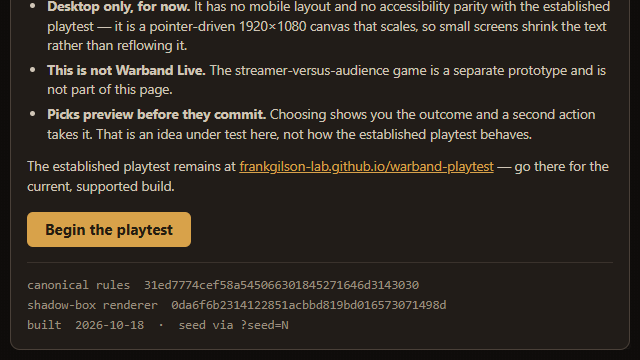
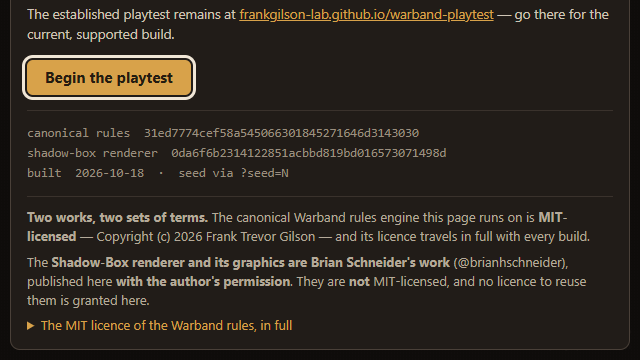
Rebuild with the MIT licence inside, and both seeds played to a verdict
index.html is BYTE-IDENTICAL -- the same git object on this branch, on main and
in the working tree, 622b4cfd9266dff240adaae3dd73a610664c2097. Only
shadowbox.html, SHADOWBOX.md and docs/shadowbox/ change.

Rebuilt from the same two pinned commits by build-shadowbox.mjs in
Everyone-Loves-Beacon/warband-live, now carrying the verbatim MIT licence of the
rules it inlines: 800,497 bytes, sha256
7d4e605da43402da6cfa8a176d5d326a89e31d0b905cb4c9a730dc5b13a2c439

Two works travel in the file and the page keeps them apart. The canonical rules
are MIT, Copyright (c) 2026 Frank Trevor Gilson, and the licence is embedded
twice -- an HTML comment nothing can dismiss, and a readable panel in the notice
-- both 31ed777:LICENSE byte for byte. The Shadow-Box renderer and its graphics
are Brian Schneider's work, published with his permission, which is NOT a
licence: the page says they are not MIT and that no right to reuse them is
granted here.

Both requested seeds now play to the engine's verdict, offline, with the
Chronicle on screen and no console errors:

  seed  3   over at turn 7    against 54/12 of 54/48   Company A broke
  seed 28   over at turn 10   against 48/8  of 46/51   Company A broke

The earlier "freezes at turn 7" claim was a fault in the test harness, not in
the renderer, and is withdrawn; the verdict is now read from wbState(), the
engine's own accessor, rather than from a rendering snapshot that stops
updating the moment a match ends.
[…]

Changed region(s): [[0.0312, 0.0, 0.9688, 0.55], [0.0312, 0.5806, 0.9375, 0.8556], [0.0312, 0.8861, 0.4688, 0.9167]]

diff --git a/shadowbox.html b/shadowbox.html
@@ -1,4 +1,47 @@
 <!doctype html>
+<!--
+  Warband · Shadow-Box — an experimental, self-contained playtest build.
+
+  TWO WORKS TRAVEL IN THIS FILE, UNDER TWO DIFFERENT SETS OF TERMS.
+
+  1. THE CANONICAL WARBAND RULES ENGINE — config.js, core.js and engine.js, from
+     frankgilson-lab/warband-prototype at 31ed7774cef58a545066301845271646d3143030 — is MIT-licensed.
+     Its licence and copyright notice follow in full, verbatim, as MIT requires of
+     every copy and of every substantial portion.
+
+  2. THE SHADOW-BOX RENDERER AND ITS GRAPHICS — index.html, kit.js and sb.js, from
+     Everyone-Loves-Beacon/warband-live at 0da6f6b2314122851acbbd819bd016573071498d — are the work of
+     Brian Schneider (@brianhschneider), published here with the author's permission.
+     They are NOT covered by the MIT licence below, and this file grants no licence to
+     use, copy, modify or redistribute them. Permission to publish this playtest is not
+     permission to reuse the renderer.
+
+  ---- 31ed7774cef58a545066301845271646d3143030:LICENSE, verbatim ----
+
+MIT License
+
+Copyright (c) 2026 Frank Trevor Gilson
+
+Permission is hereby granted, free of charge, to any person obtaining a copy
+of this software and associated documentation files (the "Software"), to deal
+in the Software without restriction, including without limitation the rights
+to use, copy, modify, merge, publish, distribute, sublicense, and/or sell
+copies of the Software, and to permit persons to whom the Software is
+furnished to do so, subject to the following conditions:
+
+The above copyright notice and this permission notice shall be included in all
+copies or substantial portions of the Software.
+
+THE SOFTWARE IS PROVIDED "AS IS", WITHOUT WARRANTY OF ANY KIND, EXPRESS OR
+IMPLIED, INCLUDING BUT NOT LIMITED TO THE WARRANTIES OF MERCHANTABILITY,
+FITNESS FOR A PARTICULAR PURPOSE AND NONINFRINGEMENT. IN NO EVENT SHALL THE
+AUTHORS OR COPYRIGHT HOLDERS BE LIABLE FOR ANY CLAIM, DAMAGES OR OTHER
+LIABILITY, WHETHER IN AN ACTION OF CONTRACT, TORT OR OTHERWISE, ARISING FROM,
+OUT OF OR IN CONNECTION WITH THE SOFTWARE OR THE USE OR OTHER DEALINGS IN THE
+SOFTWARE.
+
+  ---- end of licence ----
+-->
 <html><head><meta charset="utf-8">
 <meta name="viewport" content="width=device-width,initial-scale=1">
 <title>Warband · Shadow-Box (experimental desktop playtest)</title>
@@ -15,7 +58,7 @@
 </style></head>
 <body>
 <svg id="s" viewBox="0 0 1920 1080" preserveAspectRatio="xMidYMid meet"></svg><div class="grain"></div>
-<script>/* warband rules config.js — canonical 31ed777 */
+<script>/* warband rules config.js — canonical 31ed777 — MIT, Copyright (c) 2026 Frank Trevor Gilson */
 // Generated from config.json — do not edit by hand.
 // Loaded before core.js so the rules module has its data synchronously,
 // following the portal cards-generated.js convention.
@@ -797,7 +840,7 @@ if (typeof self !== 'undefined') self.WARBAND_CONFIG = WARBAND_CONFIG;
 if (typeof window !== 'undefined') window.WARBAND_CONFIG = WARBAND_CONFIG;
 
 </script>
-<script>/* warband rules core.js — canonical 31ed777 */
+<script>/* warband rules core.js — canonical 31ed777 — MIT, Copyright (c) 2026 Frank Trevor Gilson */
 // ── Warband Core ──────────────────────────────────────────────────────────────
 // Pure game logic: no DOM, no rendering. Shared by worker.js (simulation) and
 // engine.js (interactive play), so the prototype and the sweeps can never drift
@@ -2921,7 +2964,7 @@ else if (typeof self !== 'undefined') self.WarbandCore = WarbandCore;
 else if (typeof window !== 'undefined') window.WarbandCore = WarbandCore;
 
 </script>
-<script>/* warband rules engine.js — canonical 31ed777 */
+<script>/* warband rules engine.js — canonical 31ed777 — MIT, Copyright (c) 2026 Frank Trevor Gilson */
 // ── Warband Engine ────────────────────────────────────────────────────────────
 // Interactive hotseat play for the portal. All RULES come from core.js, which the
 // Monte Carlo sweeps also use, so what people play is exactly what was simulated.
@@ -11615,7 +11658,7 @@ if (typeof window !== 'undefined') Object.assign(window, {
 });
 
 </script>
-<script>/* shadow-box kit.js — 0da6f6b */
+<script>/* shadow-box kit.js — 0da6f6b — Brian Schneider, published with permission; not MIT */
 // Concept-still kit: a Warband hex board drawn in the "Shadow-Box" (FunFab papercut) direction.
 // Pointy-top hexes, odd-r offset, 9 x 7 like the prototype. Pure SVG strings, no deps.
 (function () {
@@ -11927,7 +11970,7 @@ if (typeof window !== 'undefined') Object.assign(window, {
 })();
 
 </script>
-<script>/* shadow-box sb.js — 0da6f6b */
+<script>/* shadow-box sb.js — 0da6f6b — Brian Schneider, published with permission; not MIT */
 // Warband · Shadow-Box prototype.
 // A new renderer over Frank's rules engine (upstream engine.js/core.js, untouched).
 // Every rule, move, forecast and bot decision comes from the engine:
@@ -13014,6 +13057,7 @@ window.P = P; window.svg = svg;
     #sb-gate ul{padding-left:17px}
     #sb-gate li{margin:0 0 3px}
     #sb-gate .prov{font-size:11px;margin-top:10px;padding-top:8px}
+    #sb-gate .legal{font-size:11.5px;margin-top:8px;padding-top:8px}
   }
   #sb-gate h1{margin:0 0 4px;font:700 23px/1.25 'Inter','Inter Variable',system-ui,-apple-system,'Segoe UI',Roboto,'Helvetica Neue',Arial,'Liberation Sans',sans-serif;color:#f0e6d6}
   #sb-gate .tag{display:inline-block;margin:0 0 14px;padding:2px 8px;border:1px solid #7a5c2e;border-radius:999px;
@@ -13027,8 +13071,15 @@ window.P = P; window.svg = svg;
   #sb-gate button:focus-visible{outline:3px solid #f0e6d6;outline-offset:2px}
   #sb-gate .prov{margin-top:15px;padding-top:12px;border-top:1px solid #3a322c;
     font:400 12.5px/1.6 ui-monospace,SFMono-Regular,Menlo,Consolas,monospace;color:#9a8e7f}
-  #sb-stamp{position:fixed;right:9px;bottom:7px;z-index:8;pointer-events:none;
+  #sb-gate .legal{margin-top:13px;padding-top:11px;border-top:1px solid #3a322c;font-size:13px;color:#b5aa9a}
+  #sb-gate .legal p{margin:0 0 7px}
+  #sb-gate .legal summary{cursor:pointer;color:#d8a24a}
+  #sb-gate .legal pre{margin:9px 0 0;max-height:190px;overflow:auto;padding:9px 11px;background:#1a1613;
+    border:1px solid #3a322c;border-radius:6px;white-space:pre-wrap;
+    font:400 11.5px/1.5 ui-monospace,SFMono-Regular,Menlo,Consolas,monospace;color:#9a8e7f}
+  #sb-stamp{position:fixed;right:9px;bottom:7px;z-index:8;pointer-events:none;text-align:right;
     font:400 11px/1.4 ui-monospace,SFMono-Regular,Menlo,Consolas,monospace;color:#6d6358}
+  #sb-stamp .terms{font-size:10px;color:#5d544b}
 </style>
 <div id="sb-gate" role="dialog" aria-modal="true" aria-labelledby="sb-gate-h">
   <div class="card">
@@ -13059,9 +13110,43 @@ window.P = P; window.svg = svg;
       shadow-box renderer &nbsp;0da6f6b2314122851acbbd819bd016573071498d<br>
       built &nbsp;2026-10-18 &nbsp;·&nbsp; seed via <code>?seed=N</code>
     </div>
+    <div class="legal">
+      <p><strong>Two works, two sets of terms.</strong> The canonical Warband rules engine this
+        page runs on is <strong>MIT-licensed</strong> — Copyright (c) 2026 Frank Trevor Gilson — and its licence travels
+        in full with every build.</p>
+      <p>The <strong>Shadow-Box renderer and its graphics are Brian Schneider's work</strong>
+        (@brianhschneider), published here <strong>with the
+        author's permission</strong>. They are <strong>not</strong> MIT-licensed, and no licence
+        to reuse them is granted here.</p>
+      <details id="sb-licence">
+        <summary>The MIT licence of the Warband rules, in full</summary>
+        <pre id="sb-licence-text">MIT License
+
+Copyright (c) 2026 Frank Trevor Gilson
+
+Permission is hereby granted, free of charge, to any person obtaining a copy
+of this software and associated documentation files (the "Software"), to deal
+in the Software without restriction, including without limitation the rights
+to use, copy, modify, merge, publish, distribute, sublicense, and/or sell
+copies of the Software, and to permit persons to whom the Software is
+furnished to do so, subject to the following conditions:
+
+The above copyright notice and this permission notice shall be included in all
+copies or substantial portions of the Software.
+
+THE SOFTWARE IS PROVIDED "AS IS", WITHOUT WARRANTY OF ANY KIND, EXPRESS OR
+IMPLIED, INCLUDING BUT NOT LIMITED TO THE WARRANTIES OF MERCHANTABILITY,
+FITNESS FOR A PARTICULAR PURPOSE AND NONINFRINGEMENT. IN NO EVENT SHALL THE
+AUTHORS OR COPYRIGHT HOLDERS BE LIABLE FOR ANY CLAIM, DAMAGES OR OTHER
+LIABILITY, WHETHER IN AN ACTION OF CONTRACT, TORT OR OTHERWISE, ARISING FROM,
+OUT OF OR IN CONNECTION WITH THE SOFTWARE OR THE USE OR OTHER DEALINGS IN THE
+SOFTWARE.
+</pre>
+      </details>
+    </div>
   </div>
 </div>
-<div id="sb-stamp" title="canonical rules 31ed7774cef58a545066301845271646d3143030 · shadow-box renderer 0da6f6b2314122851acbbd819bd016573071498d">rules 31ed777 · renderer 0da6f6b</div>
+<div id="sb-stamp" title="canonical rules 31ed7774cef58a545066301845271646d3143030 · shadow-box renderer 0da6f6b2314122851acbbd819bd016573071498d · rules MIT (Copyright (c) 2026 Frank Trevor Gilson) · renderer Brian Schneider, published with permission, not MIT">rules 31ed777 · renderer 0da6f6b<div class="terms">rules MIT, © 2026 Frank Trevor Gilson · renderer © Brian Schneider, by permission</div></div>
 <script>
 (() => {
   const gate = document.getElementById('sb-gate');

diff --git a/SHADOWBOX.md b/SHADOWBOX.md
@@ -35,6 +35,32 @@ The three rules files are carried byte for byte:
[2 lines of base64/hex data omitted]
 
+And the artifact they make: **800,497 bytes**, sha256
[1 lines of base64/hex data omitted]
+
+## Two works, two sets of terms
+
+This matters more than its position in a README suggests, so it is stated before the build
+instructions rather than after the limitations.
+
+- **The canonical Warband rules engine is MIT-licensed**, Copyright (c) 2026 Frank Trevor
+  Gilson. MIT asks that the copyright notice and the permission notice accompany every copy
+  and every substantial portion, and a page that inlines the whole engine is a substantial
+  portion. So the licence is **embedded verbatim, twice**: as an HTML comment at the top of
+  the file, where it can never be dismissed or restyled away, and as a readable panel in the
+  opening notice. Both copies are `31ed777:LICENSE` byte for byte — 1,076 bytes, sha256
[1 lines of base64/hex data omitted]
+- **The Shadow-Box renderer and its graphics are Brian Schneider's work** (@brianhschneider),
+  published here **with his permission**. Permission is not a licence: they are **not** MIT,
+  and nothing in this repository grants anyone the right to reuse them. The page says so in
+  the same words, in the notice and in the permanent stamp.
+
+The builder reads the licence out of the same commit as the rules and **refuses to build**
+if it is missing or is not the MIT text — so the notice travels with every future build
+rather than with the one artifact somebody remembered to paste it into. Both refusals are
+exercised in `scripts/shadowbox-acceptance.mjs`'s evidence; a licence containing `--` is
+also refused, because it could not be carried verbatim inside an HTML comment.
+
 ## Rebuilding it
 
 The generated HTML is **not** a source. Edit the prototype or the builder, never the output.
@@ -43,7 +69,7 @@ The builder lives with the renderer it inlines, in `warband-live`:
 
 ```
 node scripts/build-shadowbox.mjs \
-  --app-ref   prototype/shadowbox \
+  --app-ref   0da6f6b \
   --rules-repo ../warband \
   --rules-ref  31ed777 \
   --out        ../warband-playtest/shadowbox.html
@@ -62,67 +88,79 @@ are; gameplay, balance, the sparring bot and every interaction decision are unto
 **Preview-then-Take stays an experiment of this prototype's** and is labelled as such on
 the page — it is not adopted for the canonical interface.
 
-1. The Google Fonts `<link>` is dropped.
-2. Two CSS rules redirect the renderer's two font families onto locally installed stacks.
+1. The verbatim MIT licence of the rules goes in at the top of the file, with the
+   renderer's separate terms stated beside it.
+2. The Google Fonts `<link>` is dropped.
+3. Two CSS rules redirect the renderer's two font families onto locally installed stacks.
    The renderer names fonts in SVG `font-family` **presentation attributes**, which any CSS
    rule outranks, so this needs no edit to `kit.js` or `sb.js`. A locally installed Inter or
    Lilita One is first in each stack and still wins, so a machine that has them renders
    exactly as the prototype did.
-3. The five `<script src>` tags become five inline `<script>` blocks in the same order.
-4. The `<title>` says the build is experimental.
-5. A dismissible notice and a permanent provenance stamp are added **over** the page, so the
-   renderer's own muster screen and start button are untouched. The notice is removed from
-   the DOM when dismissed, so it cannot swallow a click meant for the board.
+4. The five `<script src>` tags become five inline `<script>` blocks in the same order, each
+   headed by a comment naming its source commit and its terms.
+5. The `<title>` says the build is experimental.
+6. A dismissible notice — now carrying the licence and the attribution — and a permanent
+   provenance stamp are added **over** the page, so the renderer's own muster screen and
+   start button are untouched. The notice is removed from the DOM when dismissed, so it
+   cannot swallow a click meant for the board; the stamp stays, and carries the attribution
+   in words rather than only in two short SHAs.
 
 ## Self-containment
 
 No externally loaded JavaScript, stylesheet, font, image, XHR, socket or backend. Verified
 by opening the file in Chromium **with every URL blocked and the connection emulated
-offline**, playing a complete game, and recording that no off-origin request was even
-attempted. The single `http` string in the file is the anchor in the notice that links back
-to the established playtest — a hyperlink, not a loaded resource.
+offline**, playing both games to their verdicts, and recording that no off-origin request
+was even attempted. The single `http` string in the file is the anchor in the notice that
+links back to the established playtest — a hyperlink, not a loaded resource.
 
 `?seed=N` works as it does in the prototype, and defaults to 28.
 
-## A match cannot be finished yet — read this before publishing
+## Both seeds play to a verdict
 
-**This is the reason not to merge.** On both requested seeds the game freezes at turn 7 and
-cannot continue:
+Both requested seeds were played end to end **with every URL blocked and the connection
+emulated offline**, by a driver that clicks marks the page painted and never computes
+legality. The verdict is read from `wbState()`, the engine's own accessor — **not** from the
+view-model handed to `SB.paint`, which stops updating once `S.phase === 'over'` and would
+show a finished match as a frozen one. That mistake produced a wrong defect report against
+the renderer in an earlier round; it is why the check is written this way.
 
 ```
-seed 28   phase=play turn=7 active=1 pools=0/0 against=45/46  (one point from a break)
-seed  3   phase=play turn=7 active=1 pools=4/6 against=42/54
+seed  3   over at turn 7    against 54/12 of 54/48   Company A broke    alive A 4  B 5
+seed 28   over at turn 10   against 48/8  of 46/51   Company A broke    alive A 2  B 5
 ```
 
-It is the bot's turn in both cases. The page is **idle, not busy and not looping** — a
-repaint counter sat at 101 with no change over sixteen seconds — and no error reaches the
-console. On seed 3 the bot still has five live units with `acted: 0` and costs of 1, 3, 1, 2
-and 1 against a pool of 6, so it is not short of legal moves; it simply never takes one. The
-renderer's click handler returns early unless `active === HUMAN`, so **a player has no way
-to recover**: the match is dead where it stands.
+For both: `wbLegalMoves(wbState())` returns **0** at the ending, the **Chronicle is on
+screen**, **zero console errors**, and **no off-origin request was even attempted**. Between
+them the two runs exercised the draft, the colours, deployment, movement, plain strikes,
+Pass, Rally, Brace, Anchor and a Marking Shot, and no click that changed nothing was counted
+as an action.
 
-**It is not this build.** Brian's page, byte-identical and served from its own directory
-with its real webfonts and five separate script files, settles into the same state on the
-same turn with the same damage and the same exercised tally. The fault is in PR #4's
-turn-driving glue, not in inlining.
+`scripts/shadowbox-acceptance.mjs`, in `warband-live`, is the run:
 
-The root cause is **not** established here, and three plausible explanations were each
-killed by measurement rather than argument — an empty bot pool (false on seed 3), a turn cap
-(the rules set `max_turns` to 10), and `afterMove()` spinning on a null from `wbBotChoose`
-(false; the page does not repaint at all). Pinning it down belongs with the renderer's
-author. Until it is fixed, a playtester invited to this page will reach turn 7 and stop.
+```
+node scripts/shadowbox-acceptance.mjs ../warband-playtest/shadowbox.html   --rules-repo ../warband --rules-ref 31ed777
+```
+
+61 checks, all passing.
 
 ## Known limitations, reported rather than designed around
 
-- **Desktop only, measured.** The page is one 1920×1080 canvas scaled to the viewport, so a
-  small screen shrinks everything rather than reflowing it. Nothing clips and no scrollbar
-  appears at any size, but the type shrinks with the board:
+- **Desktop only, measured during play.** The page is one 1920×1080 canvas scaled to the
+  viewport, so a small screen shrinks everything rather than reflowing it. Nothing clips and
+  no scrollbar appears at any size, but the type shrinks with the board:
 
   | viewport | scale | smallest label | labels under 10px |
   |---|---|---|---|
-  | 1920×1080 | 1.00 | 22.0px | 0 of 12 |
-  | 1366×768 | 0.71 | 15.6px | 0 of 12 |
-  | 640×360 | 0.33 | **7.3px** | **7 of 12** |
+  | 1920×1080 | 1.00 | 13.2px | 0 of 18 |
+  | 1366×768 | 0.71 | 9.4px | 1 of 18 |
+  | 640×360 | 0.33 | **4.4px** | **9 of 18** |
+
+  **An earlier version of this table was measured on the wrong screen.** It reported 22.0px,
+  15.6px and 7.3px across 12 labels, and said no label fell under 10px at 1366×768. Those
+  numbers came from the muster screen: the measuring run clicked the start button without
+  first dismissing the notice that covers it, so the game never began and the table
+  described a title card. The figures above are from a game in progress, which is what a
+  playtester will be looking at.
 
   At 640×360 most of the interface is unreadable. There is no mobile layout, and adding one
   would be a redesign of Brian's prototype rather than a build step, so it is reported here
@@ -136,13 +174,3 @@ author. Until it is fixed, a playtester invited to this page will reach turn 7 a
 - **One human against the bot.** No hotseat, no second human, no audience.
 - **Not Warband Live.** The streamer-versus-audience prototype is separate and is not part
   of this page.
-
-## Licensing and permissions
-
-- The rules are MIT, copyright Frank Trevor Gilson, from `warband-prototype`. MIT asks that
-  the notice travel with substantial portions; the existing `index.html` carries none, so
-  this is a standing question for both pages rather than something introduced here.
-- **The Shadow-Box renderer is `brianhschneider`'s work**, in `Everyone-Loves-Beacon/warband-live`,
-  a private repository in another organisation **with no declared licence**. Publishing it
-  from this public repository needs his explicit agreement. That agreement is not recorded
-  anywhere this build can see, so it is the open question in front of this change.
